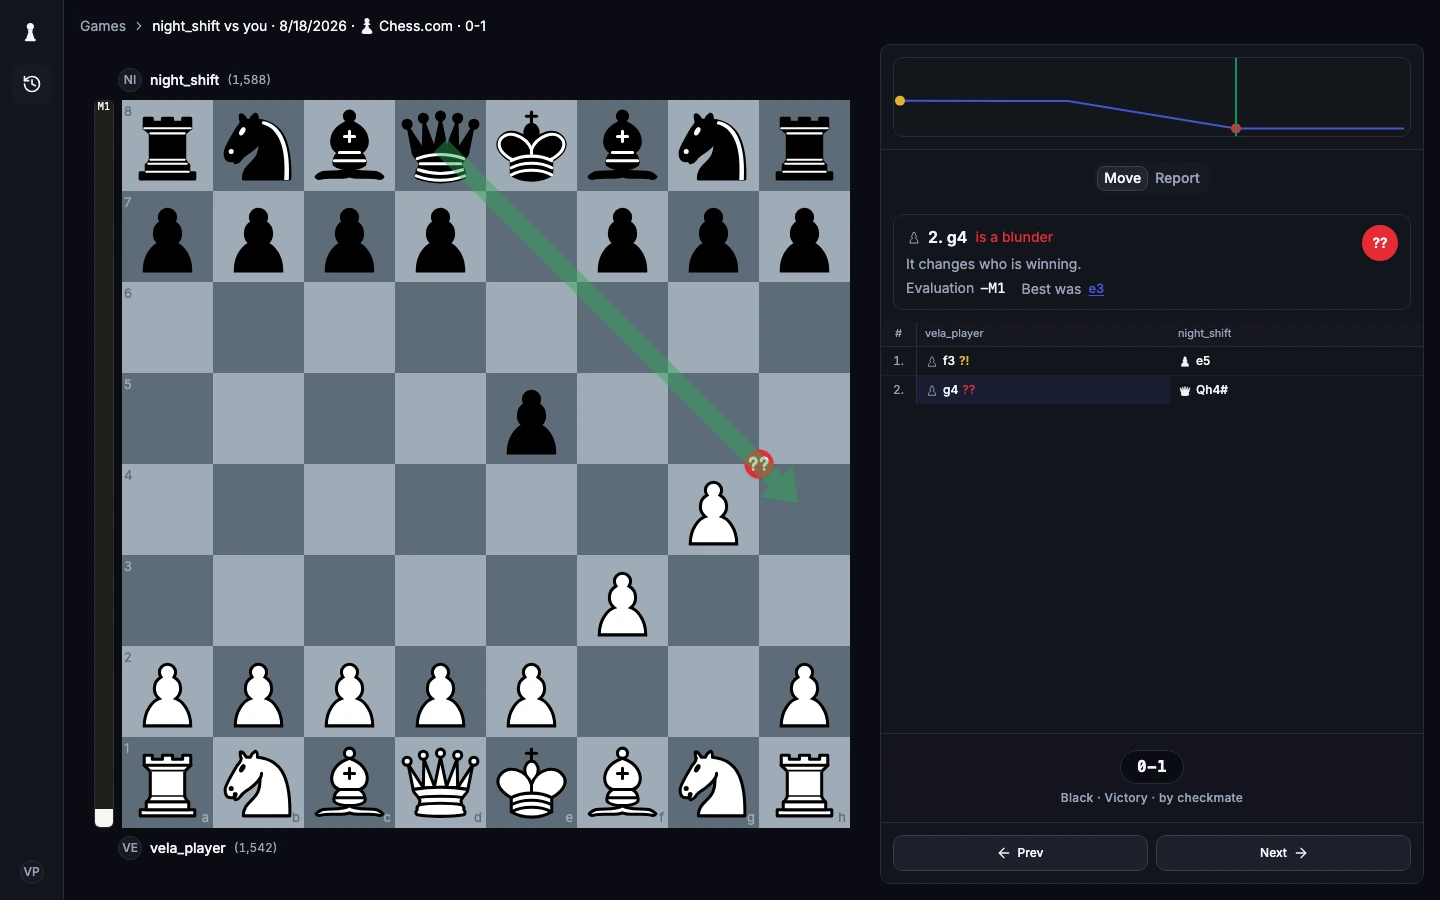
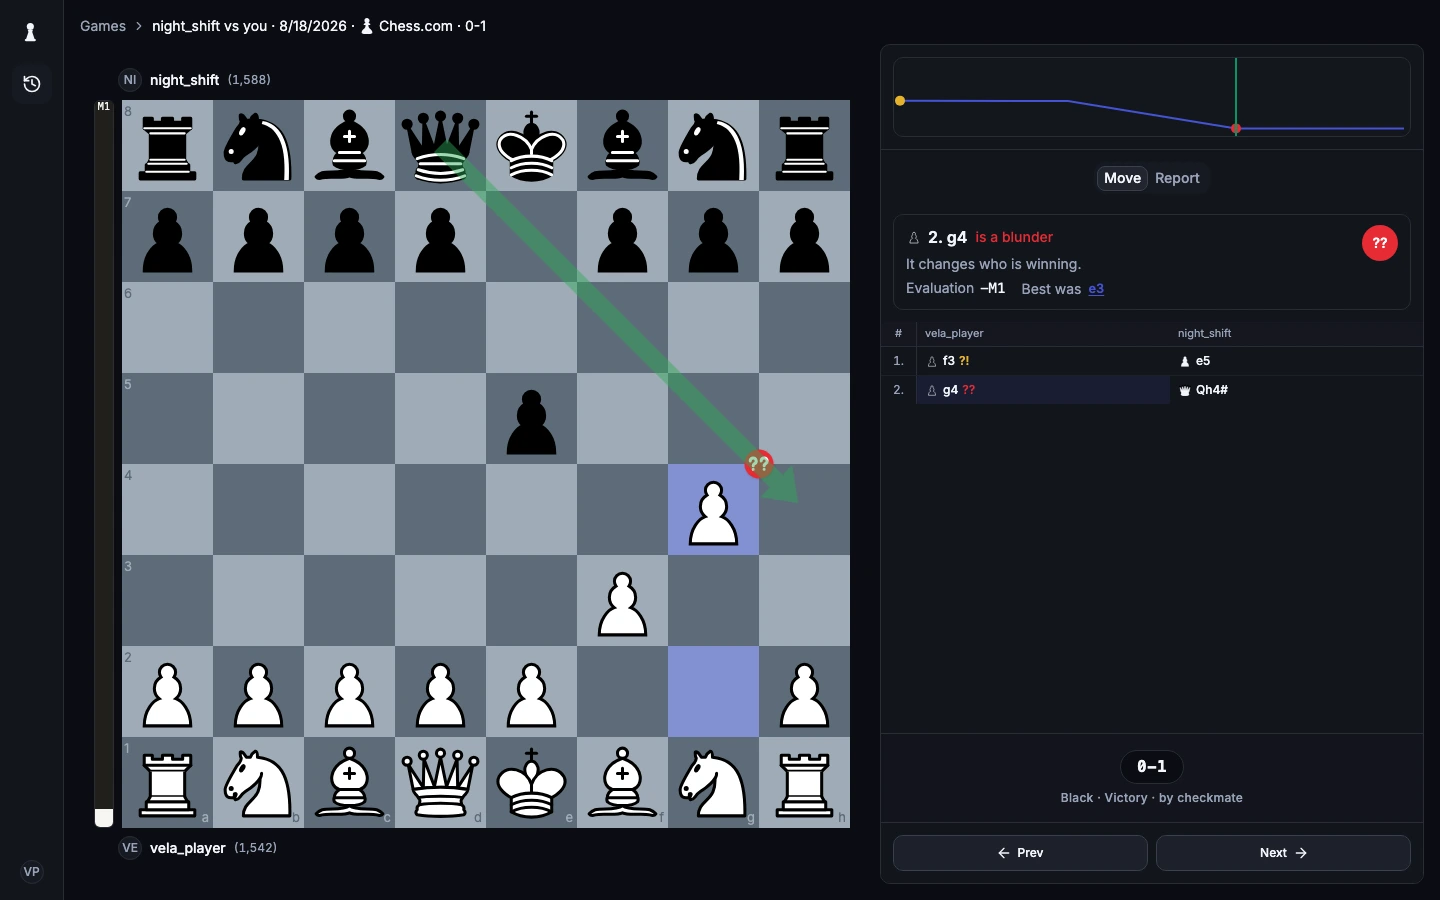
fix(web): restore last-move highlights and simplify board state
The board asked `react-chessboard` to paint the last move through
`squareStyles`. That option reaches one place in the library:

    squareRenderer?.({ piece, square, children })
      || <div style={{ width, height, ...squareStyles[squareId] }} />

The `||` means a `squareRenderer` replaces the only div that reads it,
and this component always supplies one, because that is where the move
badges go. So the highlight was computed and dropped on every render.
The same file already said so, twenty-five lines below the option it
contradicted — the trap was found while fixing the legal-move hints, and
the last move was left behind.

Neither test caught it. `board.test.tsx` asserted on the captured
`options` object, which is a claim about what we ask for, not about what
the library does; the hint tests had already been moved onto a helper
that reads the rendered style for exactly this reason. Both now read
through `squareRenderer`, and `board-render.test.tsx` asserts it against
the real library on the element a person looks at. Mutating the fix away
fails both.

The product capture is regenerated: g2 and g4 are lit after 2. g4, which
is the behaviour that was missing rather than a rendering change.

Three simplifications that stand on their own:

- `use-board-review.ts` read the played move's squares by parsing a
  position out of `fenBefore` and re-deriving the move from its SAN,
  once per render. The replay already names every move in UCI, with
[…]

Changed region(s): [[0.4375, 0.7156, 0.5312, 0.84], [0.4375, 0.4978, 0.5312, 0.6222]]

diff --git a/apps/web/src/games/review/tests/board-view.test.ts b/apps/web/src/games/review/tests/board-view.test.ts
@@ -1,5 +1,8 @@
 import { describe, expect, it } from "vitest";
 
+import { squaresOfUci } from "@velachess/chess";
+
+import { aReplay } from "../../../test/games.ts";
 import {
   legalTargetsAt,
   sanOfUciAt,
@@ -140,5 +143,66 @@ describe("sanOfUciAt", () => {
 
   it("goes quiet when the engine named no move at all", () => {
     expect(sanOfUciAt(START, "")).toBeNull();
+  });
+});
+
+/**
+ * The two squares the board lights for the move just played.
+ *
+ * `use-board-review.ts` reads them off the replay's own UCI rather than
+ * parsing the position back out of a FEN. The cases below are the ones
+ * where the two notations disagree, or where a suffix could be mistaken
+ * for a square.
+ */
+/**
+ * Kings and rooks only, so castling is the move under test and nothing
+ * else can interfere. One game per side: after White castles short the
+ * rook lands on f1 and covers f8, which makes Black's own short castle
+ * illegal — so the two cannot share a game.
+ */
+const castling = (turn: "w" | "b", movetext: string) =>
+  aReplay(
+    `[Event "C"]\n[SetUp "1"]\n[FEN "r3k2r/8/8/8/8/8/8/R3K2R ${turn} KQkq - 0 1"]\n\n${movetext}`,
+  ).moves[0]!;
+
+describe("the last move, as the replay already named it", () => {
+  it("lights the king's squares when castling short, not the rook's", () => {
+    // chessops encodes castling as king-takes-own-rook (e1h1); a board
+    // draws the king's two-square step, and h1 is where the rook was.
+    expect(squaresOfUci(castling("w", "1. O-O *").uci)).toEqual({ from: "e1", to: "g1" });
+    expect(squaresOfUci(castling("b", "1... O-O *").uci)).toEqual({
+      from: "e8",
+      to: "g8",
+    });
+  });
+
+  it("lights the king's squares when castling long", () => {
+    expect(squaresOfUci(castling("w", "1. O-O-O *").uci)).toEqual({
+      from: "e1",
+      to: "c1",
+    });
+    expect(squaresOfUci(castling("b", "1... O-O-O *").uci)).toEqual({
+      from: "e8",
+      to: "c8",
+    });
+  });
+
+  it("ignores a promotion suffix, which is not a square", () => {
+    const [promotion] = aReplay(
+      '[Event "C"]\n[SetUp "1"]\n[FEN "8/P6k/8/8/8/8/8/K7 w - - 0 1"]\n\n1. a8=Q *',
+    ).moves;
+
+    expect(promotion!.uci).toBe("a7a8q");
+    expect(squaresOfUci(promotion!.uci)).toEqual({ from: "a7", to: "a8" });
+  });
+
+  it("reads a game that starts from a position, with Black to play", () => {
+    const [first] = aReplay(
+      '[Event "C"]\n[SetUp "1"]\n[FEN "rnbqkbnr/pppp1ppp/8/4p3/4P3/8/PPPP1PPP/RNBQKBNR b KQkq - 0 20"]\n\n20... Nf6 *',
+    ).moves;
+
+    expect(first!.side).toBe("black");
+    expect(first!.moveNumber).toBe(20);
+    expect(squaresOfUci(first!.uci)).toEqual({ from: "g8", to: "f6" });
   });
 });

diff --git a/libs/ui/src/chess/tests/board.test.tsx b/libs/ui/src/chess/tests/board.test.tsx
@@ -34,7 +34,6 @@ interface CapturedOptions {
   darkSquareNotationStyle: { color: string };
   lightSquareStyle: { backgroundColor: string };
   darkSquareStyle: { backgroundColor: string };
-  squareStyles: Record<string, { backgroundColor?: string; backgroundImage?: string }>;
   arrows: CapturedArrow[] | undefined;
   arrowOptions: {
     arrowLengthReducerDenominator: number;
@@ -51,19 +50,27 @@ interface CapturedOptions {
 
 let captured: CapturedOptions;
 
+interface SquareFill {
+  backgroundImage?: string;
+  backgroundColor?: string;
+}
+
 /**
- * The hint painted on a square, read where it is actually applied.
+ * Every fill a square carries, read where it is actually applied.
  *
  * Not `squareStyles`: the library only reads that on its own square div,
  * and a `squareRenderer` replaces that div — so asserting there passed
  * while nothing rendered.
  */
-function hintAt(square: string): string | undefined {
+function fillAt(square: string): SquareFill {
   const rendered = captured.squareRenderer({ square });
-  const style = (
-    rendered.props as { style?: { backgroundImage?: string; backgroundColor?: string } }
-  ).style;
-  return style?.backgroundImage ?? style?.backgroundColor;
+  return (rendered.props as { style?: SquareFill }).style ?? {};
+}
+
+/** The hint alone: a dot or ring is an image, a selection is a colour. */
+function hintAt(square: string): string | undefined {
+  const fill = fillAt(square);
+  return fill.backgroundImage ?? fill.backgroundColor;
 }
 
 // Only the component is stubbed. The module's own constants stay real,
@@ -93,8 +100,9 @@ it("passes the position, orientation and themed squares down", () => {
 it("lights both squares of the last move", () => {
   render(<Board fen={START} lastMove={{ from: "e2", to: "e4" }} />);
 
-  expect(captured.squareStyles["e2"]!.backgroundColor).toBe("var(--board-highlight)");
-  expect(captured.squareStyles["e4"]!.backgroundColor).toBe("var(--board-highlight)");
+  expect(fillAt("e2").backgroundColor).toBe("var(--board-highlight)");
+  expect(fillAt("e4").backgroundColor).toBe("var(--board-highlight)");
+  expect(fillAt("d2")).toEqual({});
 });
 
 it("asks the library for notation rather than drawing it", () => {
@@ -263,7 +271,8 @@ it("leaves a board with no hint source unmarked", () => {
 
   act(() => captured.onPieceDrag({ square: "b1" }));
 
-  expect(Object.keys(captured.squareStyles)).toEqual([]);
+  expect(fillAt("b1")).toEqual({});
+  expect(fillAt("a3")).toEqual({});
 });
 
 /**

diff --git a/libs/ui/src/chess/board.tsx b/libs/ui/src/chess/board.tsx
@@ -224,6 +224,7 @@ export function Board({
   // re-implementing the board.
   const [selected, setSelected] = useState<string | null>(null);
   const hints = hintsOf(showLegalMoves === "off" ? null : selected, legalTargetsOf);
+  const highlights = squaresOf(lastMove);
 
   /**
    * Click to move: pick a piece, then click where it goes.
@@ -278,10 +279,6 @@ export function Board({
           allowDragging: interactive && onMove !== undefined,
           lightSquareStyle: BOARD_STYLE.light,
           darkSquareStyle: BOARD_STYLE.dark,
-          // The last move still goes here: it is painted before any
-          // renderer runs, and the library merges it into the square's own
-          // background rather than the child this component returns.
-          squareStyles: squaresOf(lastMove),
           // Three gestures reach the same selection, because all three
           // are how people pick a piece: dragging it, clicking it, and
           // clicking a square that happens to hold one. Wiring only the
@@ -306,17 +303,17 @@ export function Board({
           // on move 12 is still hanging there on move 13.
           allowDrawingArrows: true,
           clearArrowsOnPositionChange: true,
-          // `squareStyles` is only read by the library's own square div,
-          // and a `squareRenderer` replaces it outright — the source is
-          // `squareRenderer?.(…) || <div style={{…squareStyles[id]}} />`.
-          // Since we render badges, nothing was ever consuming the hints,
-          // so they have to be applied here by hand.
+          // Every square fill goes here, never through `squareStyles`:
+          // the library reads that option only on the div a renderer
+          // replaces — `squareRenderer?.(…) || <div style={{…squareStyles[id]}} />`
+          // — and badges mean there is always a renderer. The hint wins
+          // the overlap, so a piece picked up off the last move looks it.
           squareRenderer: ({ square, children }) => {
             const tone = badges?.[square];
             return (
               <div
                 className="relative flex h-full w-full items-center justify-center"
-                style={hints[square]}
+                style={{ ...highlights[square], ...hints[square] }}
               >
                 {children}
                 {tone !== undefined && (

diff --git a/apps/web/src/games/review/review-presentation.ts b/apps/web/src/games/review/review-presentation.ts
@@ -8,7 +8,7 @@
 import { resolveGamePerspective } from "@velachess/chess";
 
 import { flairImageOf } from "../import/index.ts";
-import { seatIdentityOf, seatOf, type Seat } from "./board-view.ts";
+import { seatIdentityOf, type Seat } from "./board-view.ts";
 import type { ReplayableGame } from "./game-record.ts";
 
 /** What seating a board needs of the game it is showing. */
@@ -78,13 +78,14 @@ export function reviewPlayersOf(
   usernames: readonly string[],
   formatRating: (rating: number) => string,
 ): ReviewPlayers {
-  const orientation = seatOf(game, usernames);
+  const mySeat = resolveGamePerspective(game, usernames);
+  const orientation = mySeat ?? "white";
   const white = playerSeatOf(game, "white", formatRating);
   const black = playerSeatOf(game, "black", formatRating);
 
   return {
     orientation,
-    mySeat: resolveGamePerspective(game, usernames),
+    mySeat,
     top: orientation === "white" ? black : white,
     bottom: orientation === "white" ? white : black,
   };

diff --git a/apps/web/src/games/review/use-board-review.ts b/apps/web/src/games/review/use-board-review.ts
@@ -14,7 +14,7 @@ import { squaresOfUci, type LegalDestination, type MoveSquares } from "@velaches
 import type { BadgeTone } from "@velachess/ui/chess/board-theme";
 
 import type { GradedPly } from "../analysis/index.ts";
-import { legalTargetsAt, squaresOfSanAt, suggestedArrow } from "./board-view.ts";
+import { legalTargetsAt, suggestedArrow } from "./board-view.ts";
 import { badgeAt, evaluationOf, showingLabel } from "./move-presentation.ts";
 import {
   gradeAtPly,
@@ -59,8 +59,7 @@ export function useBoardReview(graded: readonly GradedPly[]): BoardReview {
   // The move just played, and the choice facing whoever is to move now.
   const playedGrade = gradeAtPly(graded, ply);
   const positionGrade = gradeAtPly(graded, ply + 1);
-  const lastMove =
-    variationMove ?? (gameMove ? squaresOfSanAt(gameMove.fenBefore, gameMove.san) : null);
+  const lastMove = variationMove ?? (gameMove ? squaresOfUci(gameMove.uci) : null);
 
   return {
     fen,

diff --git a/apps/web/src/games/review/board-view.ts b/apps/web/src/games/review/board-view.ts
@@ -52,7 +52,7 @@ export function seatIdentityOf(
 }
 
 /** Wraps `squaresOfSan` to take a FEN instead of a parsed position, reusing its validation rather than naive slicing. */
-export function squaresOfSanAt(fen: string, san: string): MoveSquares | null {
+function squaresOfSanAt(fen: string, san: string): MoveSquares | null {
   return positionFromFen(fen).unwrap(
     (position) => squaresOfSan(position, san),
     () => null,
@@ -67,7 +67,7 @@ export function suggestedArrow(
   return fen && san ? squaresOfSanAt(fen, san) : null;
 }
 
-/** Drag hints for the position on screen. Wraps `legalDestinations` to take a FEN, same as `squaresOfSanAt`. */
+/** Drag hints for the position on screen. Wraps `legalDestinations` to take a FEN, same as `suggestedArrow` does. */
 export function legalTargetsAt(fen: string, square: string): readonly LegalDestination[] {
   return positionFromFen(fen).unwrap(
     (position) => legalDestinations(position, square),

diff --git a/libs/ui/src/chess/tests/board-render.test.tsx b/libs/ui/src/chess/tests/board-render.test.tsx
@@ -55,6 +55,19 @@ it("paints a legal destination once a piece is picked up", () => {
   expect(squareAt(container, "a3")?.innerHTML).toContain("radial-gradient");
 }, 10_000);
 
+it("lights both squares of the last move", () => {
+  const { container } = render(<Board fen={START} />);
+  expect(squareAt(container, "e2")?.innerHTML).not.toContain("--board-highlight");
+
+  const { container: lit } = render(
+    <Board fen={START} lastMove={{ from: "e2", to: "e4" }} />,
+  );
+
+  expect(squareAt(lit, "e2")?.innerHTML).toContain("--board-highlight");
+  expect(squareAt(lit, "e4")?.innerHTML).toContain("--board-highlight");
+  expect(squareAt(lit, "d2")?.innerHTML).not.toContain("--board-highlight");
+}, 10_000);
+
 it("renders a square for every one of the sixty-four", () => {
   // Cheap smoke test that the library mounted at all: without it a
   // silently broken render would make the assertion above pass by

diff --git a/apps/web/src/games/review/move-list.tsx b/apps/web/src/games/review/move-list.tsx
@@ -12,6 +12,7 @@ import { useGameReview } from "./use-game-review.ts";
 export interface MoveListProps {
   /** Grades in ply order — shorter than the game while the run streams. */
   graded: readonly GradedPly[];
+  moves: readonly ReplayedMove[];
   whiteName: string;
   blackName: string;
 }
@@ -43,8 +44,7 @@ function scoresheetRows(moves: readonly ReplayedMove[]): ScoresheetRow[] {
 }
 
 /** Cells are real buttons for keyboard reach. */
-export function MoveList({ graded, whiteName, blackName }: MoveListProps) {
-  const moves = useGameReview((state) => state.moves);
+export function MoveList({ graded, moves, whiteName, blackName }: MoveListProps) {
   const currentPly = useGameReview((state) => state.ply);
   const onSelectPly = useGameReview((state) => state.goToPly);
 

diff --git a/apps/web/src/games/review/review-model.ts b/apps/web/src/games/review/review-model.ts
@@ -52,7 +52,6 @@ interface VariationMove {
 
 /** A line played from one ply of the real game. One line, not a tree. */
 export interface Variation {
-  originPly: number;
   moves: VariationMove[];
   /** 1-based: how many of the line's moves are on the board. Never 0 — a
    * variation with nothing shown is the game itself. */
@@ -208,7 +207,6 @@ export function playVariationMove(
     : [];
 
   return {
-    originPly: state.variation?.originPly ?? state.ply,
     moves: [...kept, { move: { from, to }, san: played.san, fen: played.fen }],
     cursor: kept.length + 1,
   };

diff --git a/apps/web/src/games/review/tests/variation.test.ts b/apps/web/src/games/review/tests/variation.test.ts
@@ -154,7 +154,6 @@ describe("playing a variation", () => {
     const { variation } = store.getState();
     expect(variation?.moves.map((move) => move.san)).toEqual(["e4", "e5", "Nf3"]);
     expect(variation?.cursor).toBe(3);
-    expect(variation?.originPly).toBe(0);
   });
 
   it("supersedes the evaluation under way, and only the last one lands", async () => {

diff --git a/apps/web/src/games/review/analysis-panel.tsx b/apps/web/src/games/review/analysis-panel.tsx
@@ -116,6 +116,7 @@ export function AnalysisPanel({
           )}
           <MoveList
             graded={graded}
+            moves={game.moves}
             whiteName={game.whiteName}
             blackName={game.blackName}
           />
